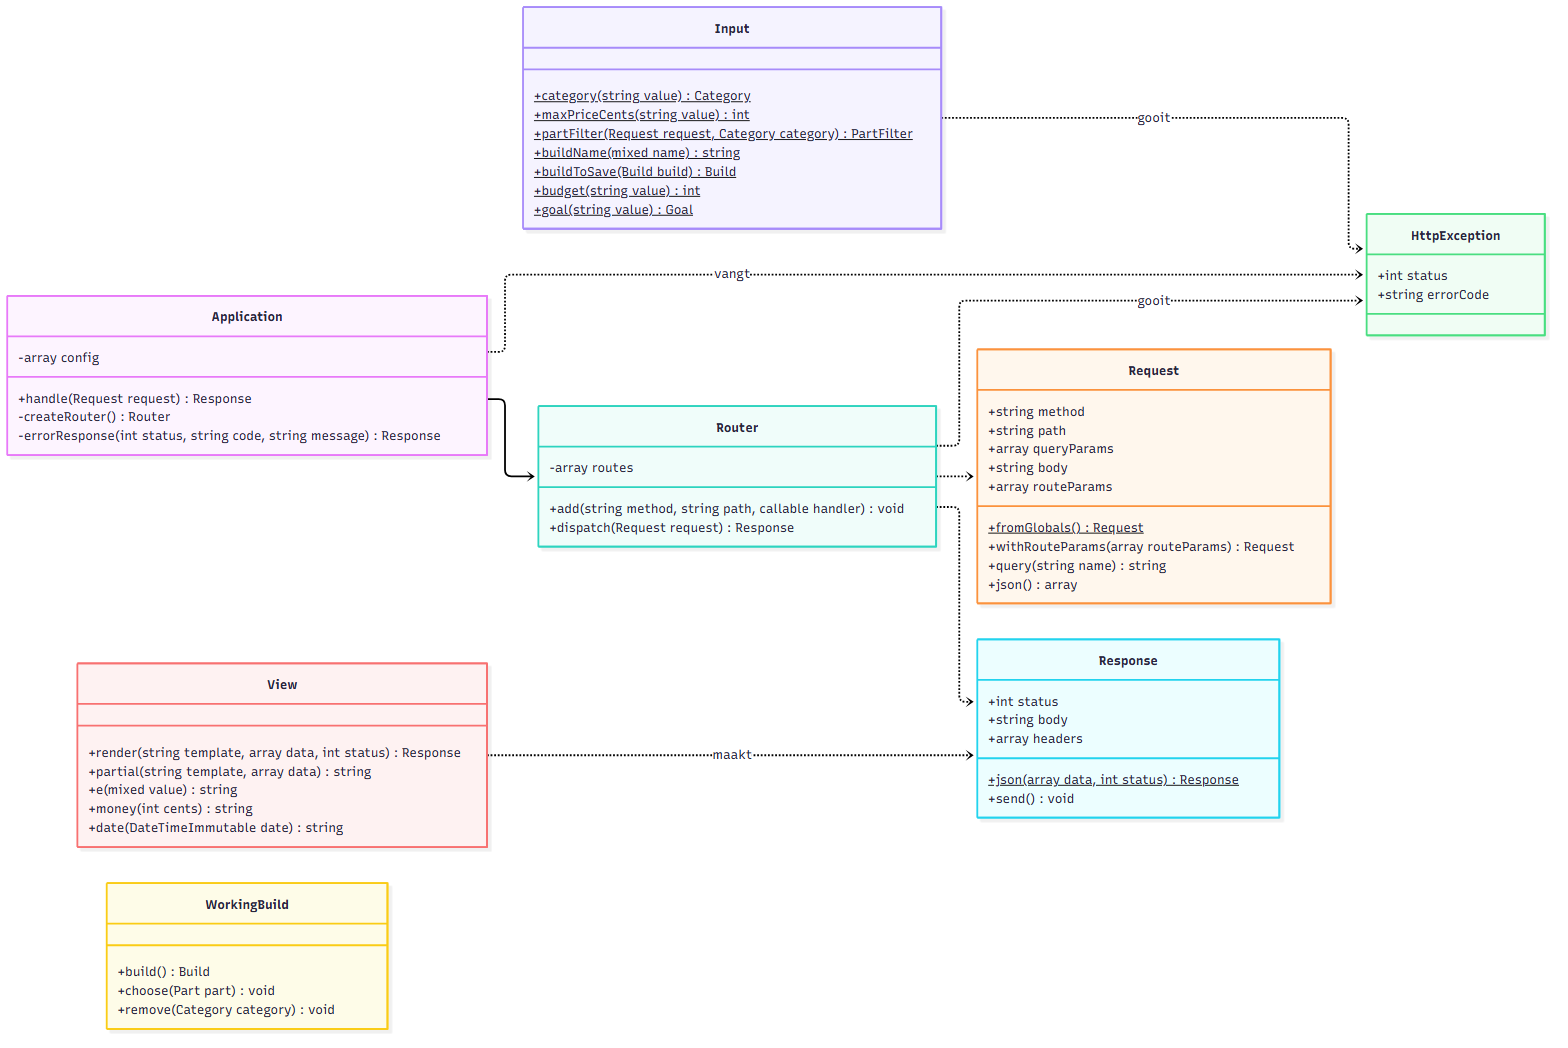
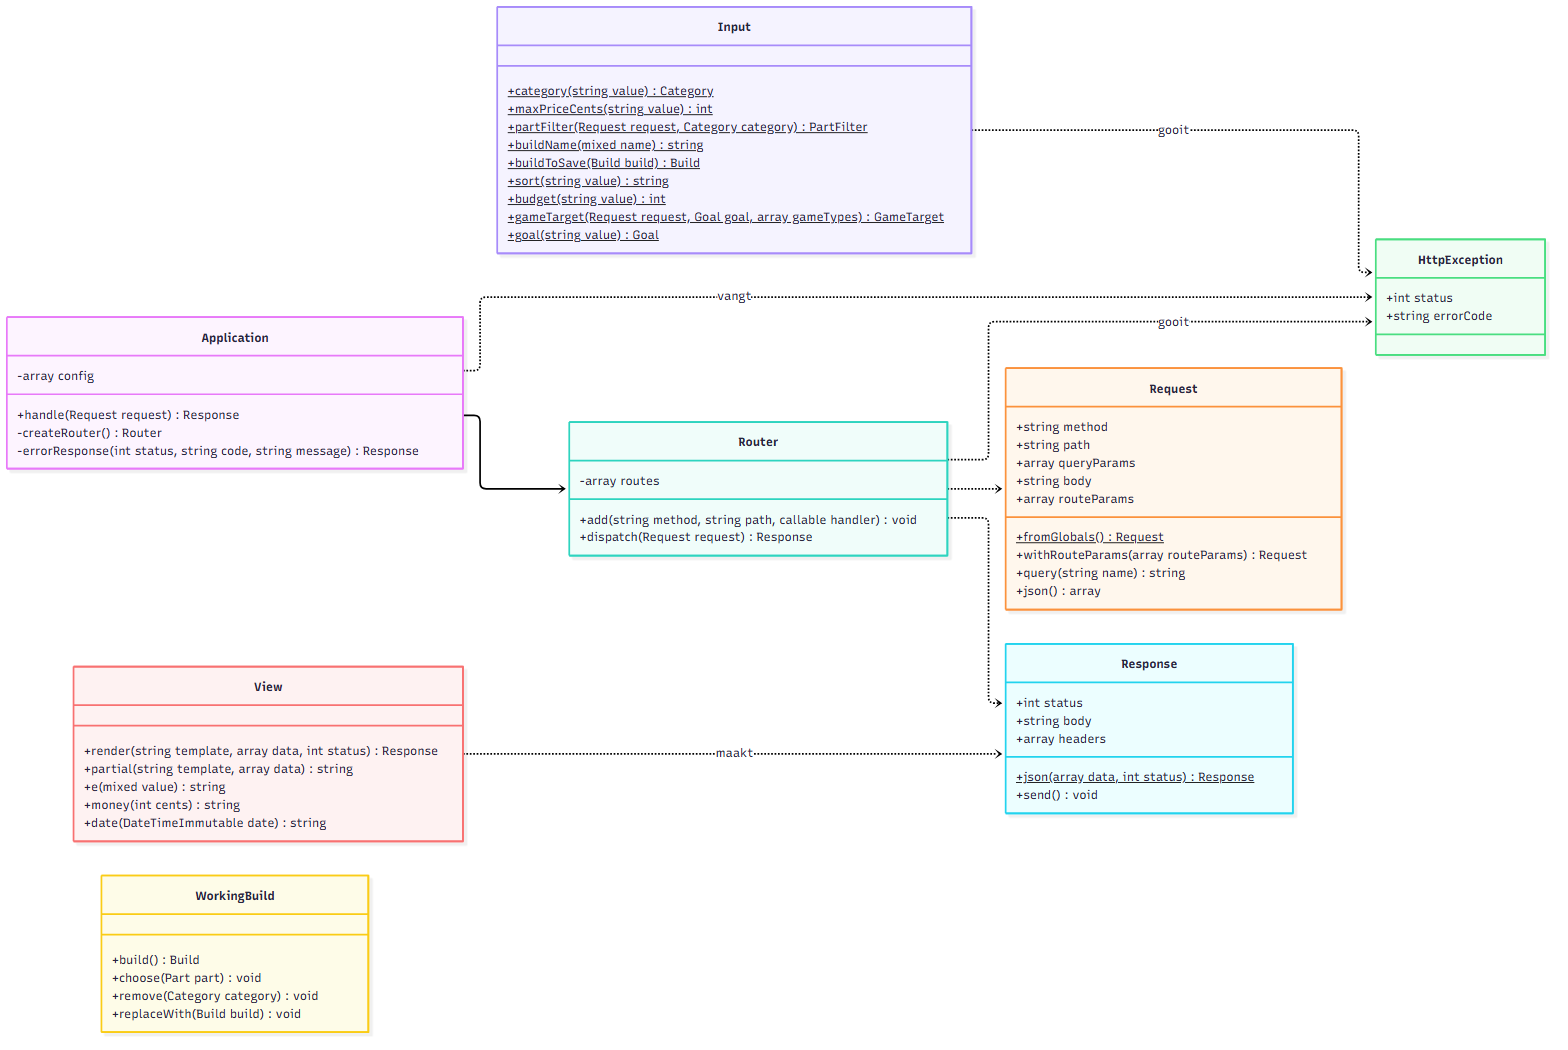
docs: ontwerp bijgewerkt voor sorteren, beeld zonder videokaart en speldoel (#35)

diff --git a/docs/ontwerp.md b/docs/ontwerp.md
@@ -79,7 +79,7 @@ flowchart LR
 | Totaalprijs en verbruik zien | F-13 | Het systeem telt prijs en verbruik op na elke keuze. |
 | Build opslaan | F-14 | De gebruiker geeft een naam en krijgt een deelcode. |
 | Opgeslagen build openen | F-15 | De gebruiker opent een build met de link of de deelcode. |
-| Aanbeveling vragen | F-16, F-17 | De gebruiker vult budget en doel in en krijgt een build met uitleg. |
+| Aanbeveling vragen | F-16, F-17, F-31, F-32 | De gebruiker kiest een doel en bij gamen en streamen ook scherm en soort games. Het budget mag leeg blijven. Daarna volgt een build met uitleg. |
 | Aanbeveling overnemen | F-19 | De gebruiker zet de aanbeveling in de bouwplanner om hem aan te passen. |
 | Onderdelen inladen | F-01 | De ontwikkelaar vult de database met het seed-script. |
 
@@ -140,6 +140,9 @@ erDiagram
         varchar chip "bijv. GeForce RTX 4070 Super"
         tinyint vram_gb
         smallint length_mm
+        smallint fps_1080p "gemiddelde FPS zware games"
+        smallint fps_1440p
+        smallint fps_4k
     }
     coolers {
         int part_id PK, FK
@@ -197,6 +200,7 @@ Toelichting:
 - **Verbruik** (`power_w`) staat bij elk onderdeel. Voor processors en videokaarten is dat het maximale vermogen volgens de fabrikant, voor de andere categorieën een vaste schatting. Zie [keuzes.md](keuzes.md).
 - **Build en onderdelen** is een veel-op-veel-relatie via `build_parts`. Dat er per categorie maar één onderdeel in een build zit, controleert de code bij het opslaan.
 - **View `part_details`:** een onderdeel staat verdeeld over `parts`, de tabel van de categorie en de opzoektabellen. De view voegt die samen tot één rij per onderdeel. De PHP-code leest altijd uit deze view, zodat de lange reeks joins op één plek staat (`database/schema.sql`). Velden van een andere categorie zijn in die rij leeg (NULL). De view staat niet in het ERD, omdat hij geen eigen gegevens bevat.
+- **FPS bij videokaarten:** `fps_1080p`, `fps_1440p` en `fps_4k` zijn de gemiddelde beelden per seconde in zware games op dat scherm, uit één bron. De aanbeveling gebruikt ze om een videokaart te kiezen die snel genoeg is (F-31). Waar de getallen vandaan komen, staat in [data-controle.md](data-controle.md).
 - **Geen M.2-sloten:** in de eerste versie van het ontwerp had een moederbord ook `m2_slots`. Dat veld is eruit gehaald, omdat geen enkele regel het gebruikt en ik het aantal per moederbord niet zeker wist.
 
 ## 4. Klassendiagram
@@ -260,6 +264,18 @@ classDiagram
         +string chip
         +int vramGb
         +int lengthMm
+        +int fps1080p
+        +int fps1440p
+        +int fps4k
+        +fpsAt(Resolution resolution) int
+    }
+    class Resolution {
+        <<enumeration>>
+        FullHd
+        Qhd
+        Uhd
+        +label() string
+        +description() string
     }
     class Cooler {
         +int heightMm
@@ -291,6 +307,7 @@ classDiagram
         +estimatedPowerW() int
         +isEmpty() bool
         +isComplete() bool
+        +hasAllExceptGpu() bool
         +parts() array
         +cpu() Cpu
         +motherboard() Motherboard
@@ -317,6 +334,7 @@ classDiagram
     Part <|-- StorageDrive
     Part <|-- Psu
     Part --> Category
+    Gpu ..> Resolution
     Motherboard --> FormFactor
     PcCase --> FormFactor
     Build "1" o-- "0..8" Part : bevat
@@ -347,6 +365,7 @@ classDiagram
     }
     class GpuLengthRule
     class CoolerHeightRule
+    class IntegratedGraphicsRule
     class CompatibilityChecker {
         -array rules
         +withAllRules(int psuMarginPercent) CompatibilityChecker$
@@ -391,6 +410,7 @@ classDiagram
     CompatibilityRule <|.. PsuWattageRule
     CompatibilityRule <|.. GpuLengthRule
     CompatibilityRule <|.. CoolerHeightRule
+    CompatibilityRule <|.. IntegratedGraphicsRule
     CompatibilityChecker o-- CompatibilityRule : voert uit
     CompatibilityChecker ..> CheckReport : maakt
     CheckReport *-- RuleResult
@@ -400,7 +420,7 @@ classDiagram
 
 Elke regel is een eigen klasse met dezelfde interface. De `CompatibilityChecker` kijkt eerst met `requiredCategories()` of de onderdelen voor een regel gekozen zijn. Is dat niet zo, dan maakt de checker zelf een resultaat "nog niet gecontroleerd". Pas als alles er is, roept hij `evaluate()` aan. Zo staat de controle op ontbrekende onderdelen maar op één plek. Een nieuwe regel toevoegen (zoals F-21) betekent: één nieuwe klasse schrijven en die aan de lijst van de checker toevoegen.
 
-`withAllRules()` maakt een checker met alle zes de regels. De marge van de voeding komt uit `config/app.php`.
+`withAllRules()` maakt een checker met alle zeven regels. De marge van de voeding komt uit `config/app.php`.
 
 `problemsFor()` wordt gebruikt om onderdelen grijs te maken (F-12): de checker probeert het onderdeel in een kopie van de build en geeft de fouten en waarschuwingen terug die dat oplevert. Een probleem telt mee als de regel over dit onderdeel gaat, of als het probleem er zonder dit onderdeel niet was. Zo krijgt een videokaart die de voeding overbelast ook een melding, en krijgt een SSD niet de schuld van een verkeerde socket.
 
@@ -419,9 +439,10 @@ classDiagram
         -array parts
         -CompatibilityChecker checker
         -array goals
-        +recommend(int budgetEuro, Goal goal) Recommendation
-        -chooseParts(array choices, array categories, int budgetCents, Goal goal, array settings) array
-        -spendLeftover(array choices, int budgetCents, array upgradeOrder) array
+        -GameTarget target
+        +recommend(int budgetEuro, Goal goal, GameTarget target) Recommendation
+        -chooseParts(array choices, array categories, int budgetCents) array
+        -spendLeftover(array choices, int budgetCents) array
         -canFinish(Build build, Part part, array remaining, int moneyLeftCents) bool
         -cheapestFinish(Build build, array remaining, int limitCents) int
     }
@@ -429,7 +450,25 @@ classDiagram
         +Build build
         +array choices
         +int budgetCents
+        +bool budgetGiven
+        +GameTarget target
         +leftoverCents() int
+        +summary() string
+    }
+    class GameTarget {
+        +Resolution resolution
+        +GameType gameType
+        +int minFps
+        +fits(Gpu gpu) bool
+        +label() string
+        +summary(Gpu gpu) string
+    }
+    class GameType {
+        <<enumeration>>
+        Light
+        Heavy
+        +label() string
+        +description() string
     }
     class RecommendedChoice {
         +Part part
@@ -439,6 +478,7 @@ classDiagram
     class BudgetTooLowException {
         +int minimumCents
     }
+    class NoBuildPossibleException
     class PartRepository {
         -PDO pdo
         +findById(int id) Part
@@ -480,8 +520,12 @@ classDiagram
     Recommender --> CompatibilityChecker
     Recommender ..> Recommendation : maakt
     Recommender ..> BudgetTooLowException : gooit
+    Recommender ..> NoBuildPossibleException : gooit
     Recommender --> Goal
+    Recommender --> GameTarget
+    GameTarget --> GameType
     Recommendation *-- RecommendedChoice
+    Recommendation --> GameTarget
     PartRepository ..> PartFilter
     PartRepository --> PartMapper
     PartApiController --> PartRepository
@@ -494,6 +538,8 @@ classDiagram
 ```
 
 De paginacontrollers (`HomePageController`, `BuildPageController`, `RecommendationPageController`) gebruiken dezelfde repositories en logica als de API-controllers, maar geven HTML terug in plaats van JSON.
+
+`budgetEuro` en `target` mogen leeg (`null`) zijn. Zonder budget wordt het budget het minimum (F-32). Zonder `GameTarget` telt alleen het budget, zoals bij werken. `Resolution` en `GameType` zijn enums, zodat er geen ander scherm of soort games in kan komen dan de drie en twee die er zijn. De minimale FPS per soort games komt uit `config/app.php`.
 
 ### 4.4 HTTP-laag
 
@@ -541,7 +587,9 @@ classDiagram
         +partFilter(Request request, Category category) PartFilter$
         +buildName(mixed name) string$
         +buildToSave(Build build) Build$
+        +sort(string value) string$
         +budget(string value) int$
+        +gameTarget(Request request, Goal goal, array gameTypes) GameTarget$
         +goal(string value) Goal$
     }
     class View {
@@ -555,6 +603,7 @@ classDiagram
         +build() Build
         +choose(Part part) void
         +remove(Category category) void
+        +replaceWith(Build build) void
     }
 
     Application --> Router
@@ -632,7 +681,7 @@ flowchart TD
 
 Voorbeeld met 30% marge en een verbruik van 450 W: nodig is 585 W. Een voeding van 650 W is in orde, 500 W geeft een waarschuwing en 400 W een fout. Een voeding van precies 585 W is in orde.
 
-## 6. De zes compatibiliteitsregels
+## 6. De zeven compatibiliteitsregels
 
 | Regel | Eis | Nodig | In orde als | Voorbeeld van een foutmelding |
 |---|---|---|---|---|
@@ -640,10 +689,13 @@ Voorbeeld met 30% marge en een verbruik van 450 W: nodig is 585 W. Een voeding v
 | RamTypeRule | F-06 | moederbord, geheugen | RAM-type geheugen = RAM-type moederbord | Het geheugen is DDR4, maar het moederbord ondersteunt alleen DDR5. |
 | FormFactorRule | F-07 | moederbord, kast | `size_rank` moederbord ≤ `size_rank` grootste formaat kast | Het moederbord is ATX, maar in deze kast past maximaal Micro-ATX. |
 | PsuWattageRule | F-08 | voeding, processor | zie 5.1 | De voeding levert 400 W, maar de onderdelen verbruiken samen ongeveer 450 W. |
-| GpuLengthRule | F-09 | videokaart, kast | lengte videokaart ≤ maximale lengte kast | De videokaart is 336 mm lang, maar in deze kast past maximaal 305 mm. |
+| GpuLengthRule | F-09 | kast | geen videokaart, of lengte videokaart ≤ maximale lengte kast | De videokaart is 336 mm lang, maar in deze kast past maximaal 305 mm. |
 | CoolerHeightRule | F-10 | koeler, kast | hoogte koeler ≤ maximale koelerhoogte kast | De koeler is 168 mm hoog, maar in deze kast past maximaal 155 mm. |
+| IntegratedGraphicsRule | F-21 | processor | er is een videokaart, of de processor heeft ingebouwde graphics | Deze processor heeft geen ingebouwde graphics. Zonder videokaart krijg je geen beeld. |
 
 De voedingsregel heeft naast de voeding ook de processor nodig. Zonder processor zou het verbruik heel laag uitvallen en zou elke voeding "in orde" zijn, wat de gebruiker op het verkeerde been zet.
+
+Sinds F-21 mag een build zonder videokaart, als de processor ingebouwde graphics heeft. Daarom heeft de lengteregel alleen nog de kast nodig: zonder videokaart is er niets dat moet passen. De regel voor beeld geeft pas een fout als alle andere onderdelen gekozen zijn. Daarvoor is de status "nog niet gecontroleerd", want de videokaart kan nog komen. Een build zonder videokaart is compleet als de processor ingebouwde graphics heeft (`Build::isComplete()`).
 
 ## 7. Aanbeveling
 
@@ -655,16 +707,16 @@ Het budget wordt per doel over de categorieën verdeeld. Deze percentages staan 
 
 | Categorie | Gamen | Werken | Streamen |
 |---|---|---|---|
-| Processor | 14% | 28% | 20% |
-| Moederbord | 6% | 9% | 7% |
-| Geheugen | 13% | 22% | 20% |
-| Videokaart | 50% | 20% | 38% |
-| Koeler | 3% | 3% | 3% |
-| Kast | 4% | 5% | 4% |
-| Opslag | 7% | 9% | 5% |
-| Voeding | 3% | 4% | 3% |
+| Processor | 14% | 34% | 20% |
+| Moederbord | 6% | 11% | 7% |
+| Geheugen | 13% | 26% | 20% |
+| Videokaart | 50% | 0% | 38% |
+| Koeler | 3% | 4% | 3% |
+| Kast | 4% | 6% | 4% |
+| Opslag | 7% | 14% | 5% |
+| Voeding | 3% | 5% | 3% |
 
-De eerste versie van deze tabel gaf geheugen 8 tot 14%. Met de echte prijzen van oktober 2026 was dat te weinig, want 16 GB kost nu minimaal € 169. De percentages zijn aangepast nadat ik de aanbeveling op de echte onderdelen had gedraaid, zie het [testrapport](testrapport.md).
+De eerste versie van deze tabel gaf geheugen 8 tot 14%. Met de echte prijzen van oktober 2026 was dat te weinig, want 16 GB kost nu minimaal € 169. De percentages zijn aangepast nadat ik de aanbeveling op de echte onderdelen had gedraaid, zie het [testrapport](testrapport.md). Bij werken kreeg de videokaart eerst 20%. Sinds F-21 is dat 0%: een doel zonder deel voor de videokaart krijgt geen losse videokaart en alleen een processor met ingebouwde graphics. Die 20% is over de andere onderdelen verdeeld.
 
 Daarnaast heeft elk doel minimumeisen en een eigen volgorde voor het restgeld:
 
@@ -674,12 +726,12 @@ Daarnaast heeft elk doel minimumeisen en een eigen volgorde voor het restgeld:
 | Werken | 16 GB | 500 GB | processor, geheugen, opslag |
 | Streamen | 32 GB | 1000 GB | processor, videokaart, geheugen, opslag |
 
-Bij werken krijgt de videokaart geen restgeld, want dat levert daar niets op. Je houdt dan liever geld over. Een moederbord moet minimaal 4 geheugensloten hebben, zodat je later geheugen kunt bijplaatsen. Daardoor kiest de aanbeveling geen Mini-ITX-borden: die zijn duur, maar niet sneller.
+Bij werken zit er geen videokaart in de build, dus die krijgt ook geen restgeld. Een moederbord moet minimaal 4 geheugensloten hebben, zodat je later geheugen kunt bijplaatsen. Daardoor kiest de aanbeveling geen Mini-ITX-borden: die zijn duur, maar niet sneller.
 
 ### 7.2 Stappen
 
-1. **Invoer controleren.** Het budget moet een geheel getal van 1 tot 100.000 zijn en het doel moet bestaan. Anders volgt een foutmelding.
-2. **Minimum bepalen.** `cheapestFinish()` rekent uit wat de goedkoopste complete build kost die aan de eisen van het doel voldoet. Is het budget lager, dan stopt de aanbeveling met het bedrag dat minimaal nodig is.
+1. **Invoer controleren.** Het budget is leeg of een geheel getal van 1 tot 100.000, en het doel moet bestaan. Bij gamen en streamen horen scherm en soort games er allebei bij, of allebei niet. Anders volgt een foutmelding.
+2. **Minimum bepalen.** `cheapestFinish()` rekent uit wat de goedkoopste complete build kost die aan de eisen van het doel voldoet. Is er een scherm en soort games gekozen, dan tellen alleen videokaarten mee die snel genoeg zijn. Haalt geen enkele videokaart dat, dan volgt een `NoBuildPossibleException`. Is het budget leeg, dan wordt het budget dit minimum. Is het budget lager, dan stopt de aanbeveling met het bedrag dat minimaal nodig is.
 3. **Onderdelen kiezen.** In deze volgorde: processor, moederbord, geheugen, videokaart, koeler, kast, opslag. De kast komt na de videokaart en de koeler omdat die er allebei in moeten passen. Per categorie:
    1. **Kandidaten:** alle onderdelen die aan de minimumeisen voldoen en geen fout of waarschuwing geven met wat al gekozen is. Dit gebruikt dezelfde `CompatibilityChecker` als de bouwplanner.
    2. **Deelbudget:** het percentage van het budget voor deze categorie.
@@ -689,7 +741,26 @@ Bij werken krijgt de videokaart geen restgeld, want dat levert daar niets op. Je
 4. **Restgeld besteden.** Wat over is gaat naar de onderdelen die voor dit doel het belangrijkst zijn. Per onderdeel uit de volgorde van het doel kijkt de `Recommender` of een duurder onderdeel past en betaalbaar is.
 5. **Voeding kiezen.** De voeding komt als laatste, omdat dan het verbruik vaststaat. Een betere videokaart kan een zwaardere voeding nodig hebben. Daar houdt stap 4 rekening mee.
 
-De uitkomst is de build, de uitleg per onderdeel en het bedrag dat over is.
+De uitkomst is de build, de uitleg per onderdeel, het bedrag dat over is en bij een gekozen scherm een zin over wat de build haalt.
+
+### 7.3 Scherm en soort games
+
+Alleen een budget zegt weinig voor iemand die niets van PC's weet. Daarom kies je bij gamen en streamen ook je scherm en het soort games, met voorbeelden die je kent (F-31).
+
+| Keuze | Minimale FPS in zware games op dat scherm |
+|---|---|
+| Zware games, zoals Cyberpunk 2077 | 60 |
+| Lichte games, zoals Fortnite | 30 |
+
+`GameTarget::fits()` vergelijkt de FPS van een videokaart op het gekozen scherm met dit minimum. Videokaarten die het niet halen doen niet mee, ook niet bij het besteden van restgeld. Met de onderdelen van nu geeft dat:
+
+| Scherm | Lichte games | Zware games |
+|---|---|---|
+| Full HD | GeForce RTX 5060 of beter | GeForce RTX 5060 of beter |
+| 1440p | GeForce RTX 5060 of beter | Radeon RX 9060 XT of beter |
+| 4K | Radeon RX 9060 XT of beter | Radeon RX 9070 XT of beter |
+
+Boven het resultaat staat een zin in gewone taal, bijvoorbeeld: "Deze build haalt gemiddeld ongeveer 67 FPS in zware games op 1440p. Vanaf 60 FPS (beelden per seconde) voelt een game vloeiend." Bij werken is er geen scherm of soort games, want daar zit geen videokaart in de build.
 
 `cheapestFinish()` probeert de combinaties van de categorieën die nog over zijn, van goedkoop naar duur. Is een pad duurder dan de beste oplossing tot nu toe, dan stopt het op dat pad. Alle combinaties proberen zou ruim 2 miljoen mogelijkheden zijn, zo blijft een aanbeveling onder de 20 milliseconden.
 
@@ -704,7 +775,7 @@ Alle antwoorden zijn JSON. Categorieën en doelen gebruiken Engelse waarden, net
 | POST | `/api/builds` | Build opslaan | body: `name`, `part_ids` | 201, 400, 422 |
 | GET | `/api/builds/{code}` | Opgeslagen build ophalen | | 200, 404 |
 | POST | `/api/builds/check` | Build controleren zonder op te slaan | body: `part_ids` | 200, 400, 422 |
-| GET | `/api/recommendation` | Aanbeveling opvragen | query: `budget`, `goal` | 200, 422 |
+| GET | `/api/recommendation` | Aanbeveling opvragen | query: `goal`, en optioneel `budget`, `resolution` (`1080p`, `1440p`, `4k`) en `game_type` (`light`, `heavy`) | 200, 422 |
 
 Betekenis van de statuscodes:
 
@@ -729,6 +800,7 @@ Foutcodes die de API teruggeeft:
 | 405 | `method_not_allowed` | Het pad bestaat, maar niet met deze methode |
 | 422 | `invalid_category` | Onbekende categorie in het filter |
 | 422 | `invalid_max_price` | Maximale prijs is geen getal boven 0 |
+| 422 | `invalid_sort` | Onbekende sortering |
 | 422 | `invalid_part_ids` | `part_ids` is geen lijst met positieve gehele getallen |
 | 422 | `unknown_part` | Een onderdeel uit de lijst bestaat niet |
 | 422 | `duplicate_category` | Twee onderdelen in dezelfde categorie |
@@ -736,7 +808,9 @@ Foutcodes die de API teruggeeft:
 | 422 | `empty_build` | Build zonder onderdelen opslaan |
 | 422 | `invalid_budget` | Budget is geen geheel getal van 1 tot 100.000 |
 | 422 | `invalid_goal` | Doel ontbreekt of bestaat niet |
+| 422 | `invalid_game_target` | Alleen scherm of alleen soort games, of een waarde die niet bestaat |
 | 422 | `budget_too_low` | Budget is lager dan de goedkoopste complete build |
+| 422 | `no_build_possible` | Geen enkele videokaart haalt het gekozen scherm en soort games |
 | 500 | `server_error` | Onverwachte fout op de server |
 
 Een onderdeel in een antwoord ziet er zo uit. Wat in `specs` staat, hangt af van de categorie:
@@ -760,7 +834,7 @@ Een onderdeel in een antwoord ziet er zo uit. Wat in `specs` staat, hangt af van
 }
 ```
 
-`GET /api/parts` geeft `count` en een lijst `parts` terug. Zijn er geen resultaten, dan is dat gewoon een 200 met `count` 0. `POST /api/builds` en `GET /api/builds/{code}` geven `share_code`, `url`, `name`, `created_at`, `parts` en `check` terug, waarbij `check` hetzelfde is als het antwoord van de controle hieronder. `GET /api/recommendation` geeft `goal`, `budget_eur`, `leftover_eur`, `choices` en `check` terug. Elke keuze in `choices` heeft `part`, `category_budget_eur` en `reason`.
+`GET /api/parts` geeft `count` en een lijst `parts` terug. Zijn er geen resultaten, dan is dat gewoon een 200 met `count` 0. `POST /api/builds` en `GET /api/builds/{code}` geven `share_code`, `url`, `name`, `created_at`, `parts` en `check` terug, waarbij `check` hetzelfde is als het antwoord van de controle hieronder. `GET /api/recommendation` geeft `goal`, `budget_eur`, `leftover_eur`, `summary`, `choices` en `check` terug. Zonder budget is `budget_eur` leeg (`null`) en `leftover_eur` 0. Zonder scherm en soort games is `summary` leeg. Elke keuze in `choices` heeft `part`, `category_budget_eur` en `reason`. Een videokaart heeft in `specs` ook `fps_1080p`, `fps_1440p` en `fps_4k`.
 
 Voorbeeld van een controle:
 
@@ -814,7 +888,8 @@ Voorbeeld van een foutmelding:
 | `/opslaan` | POST: slaat de build op en stuurt door naar de opgeslagen build. |
 | `/build/open` | Verwerkt het veld met de deelcode op de startpagina. |
 | `/build/{code}` | Een opgeslagen build. |
-| `/aanbeveling` | Formulier voor budget en doel, en daaronder het resultaat. |
+| `/aanbeveling` | Formulier voor doel, scherm, soort games en budget, en daaronder het resultaat. |
+| `/aanbeveling/overnemen` | POST: rekent de aanbeveling opnieuw uit, zet hem in de sessie en stuurt door naar het overzicht. |
 
 De build waar de gebruiker mee bezig is, staat in de PHP-sessie. Kiezen en verwijderen gaat met een gewoon formulier (POST). Daarna stuurt de server de browser door naar dezelfde stap, zodat vernieuwen de keuze niet opnieuw verstuurt. Zo werkt alles zonder JavaScript (NF-07).
 
@@ -892,8 +967,10 @@ De namen op de kaartjes in deze schetsen zijn voorbeelden. De echte onderdelen k
 | F-13 | `Build::totalPriceCents()`, `Build::estimatedPowerW()`, JavaScript (§9) |
 | F-14, F-15 | `BuildRepository`, tabellen `builds` en `build_parts`, `POST /api/builds`, `GET /api/builds/{code}` |
 | F-16, F-17 | `Recommender` (§7), `GET /api/recommendation` |
+| F-31 | `GameTarget`, `GameType`, `Resolution`, FPS-kolommen in `gpus` (§3, §7.3) |
+| F-32 | `Input::budget()`, `Recommender::recommend()` (§7.2) |
 | F-18 | REST API (§8) |
-| F-19 | Pagina `/aanbeveling`, sessie |
+| F-19 | `RecommendationPageController::adopt()`, `WorkingBuild::replaceWith()` |
 | F-21 | Extra regel `IntegratedGraphicsRule` (zelfde interface als §4.2) |
 | NF-01, NF-02 | `public/css/style.css`, templates |
 | NF-03 | `PartRepository` en `BuildRepository` met prepared statements, escaping in de templates |
